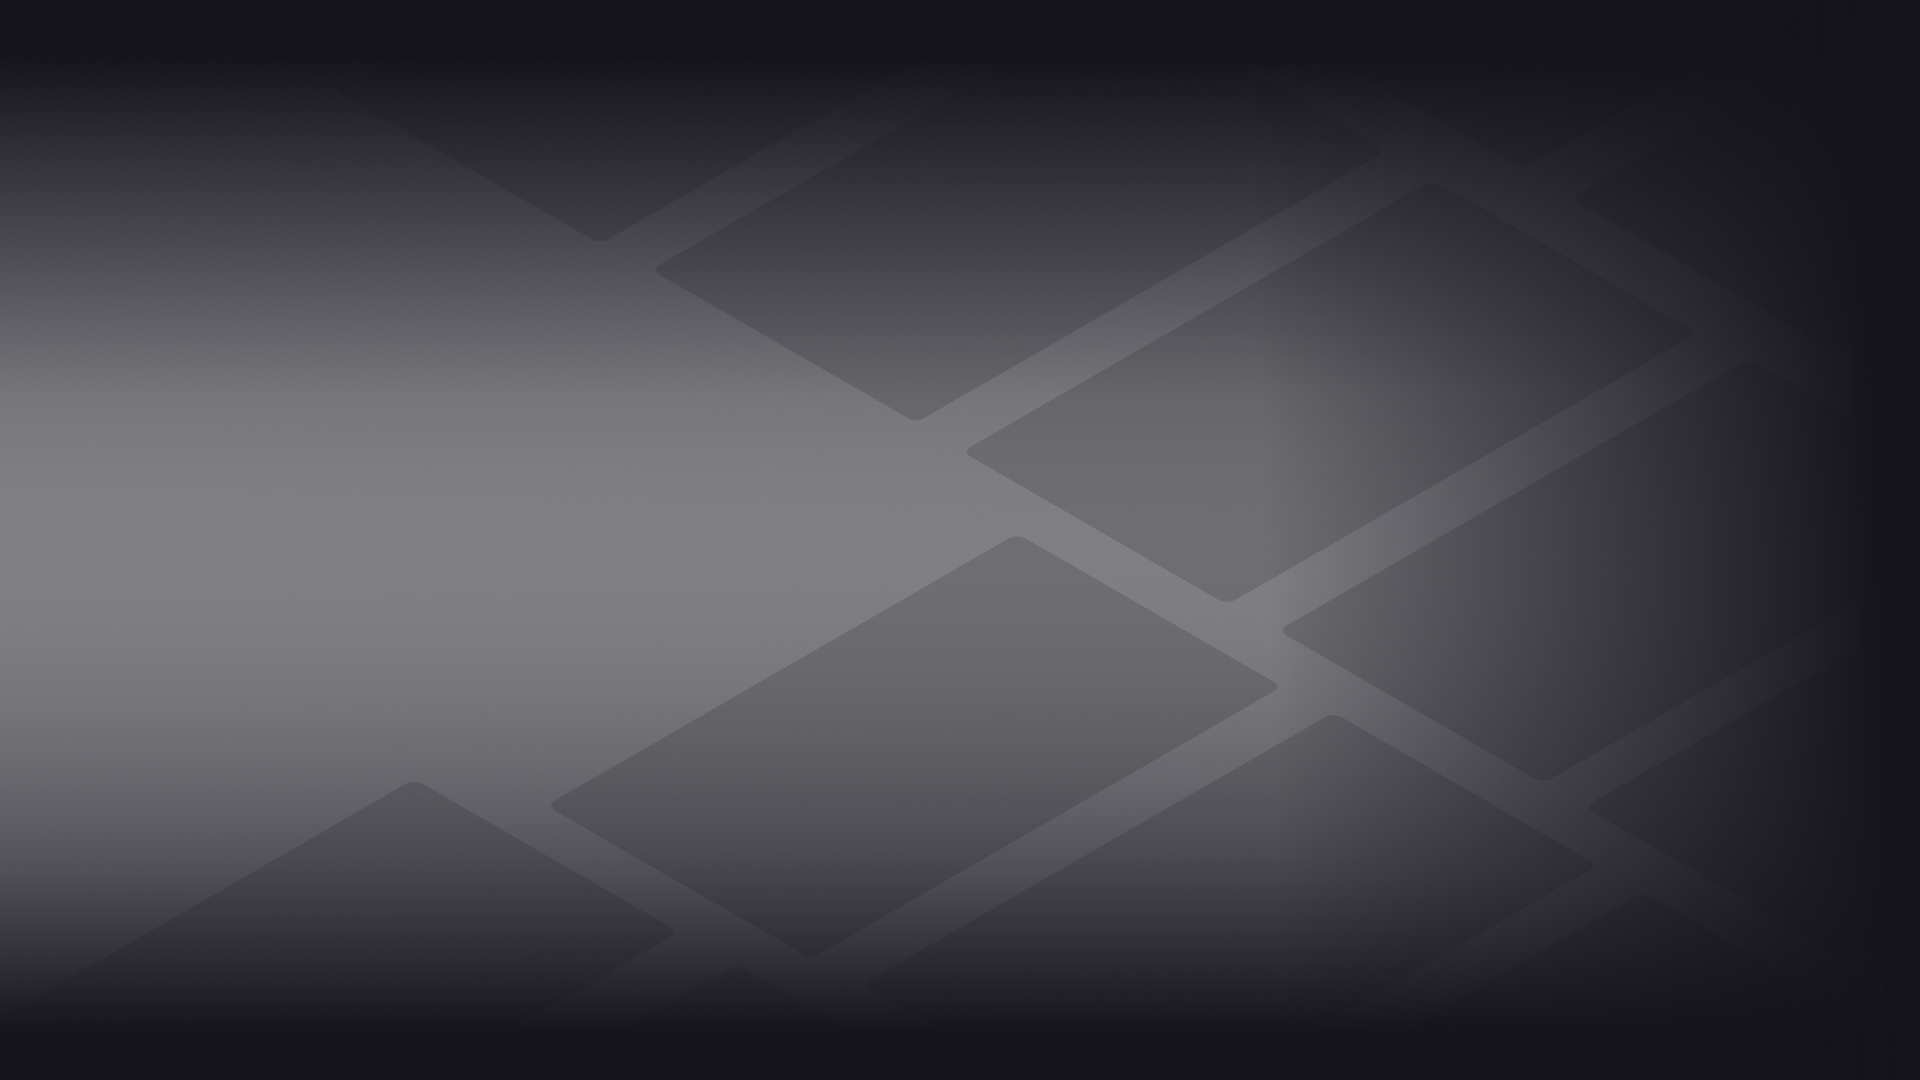
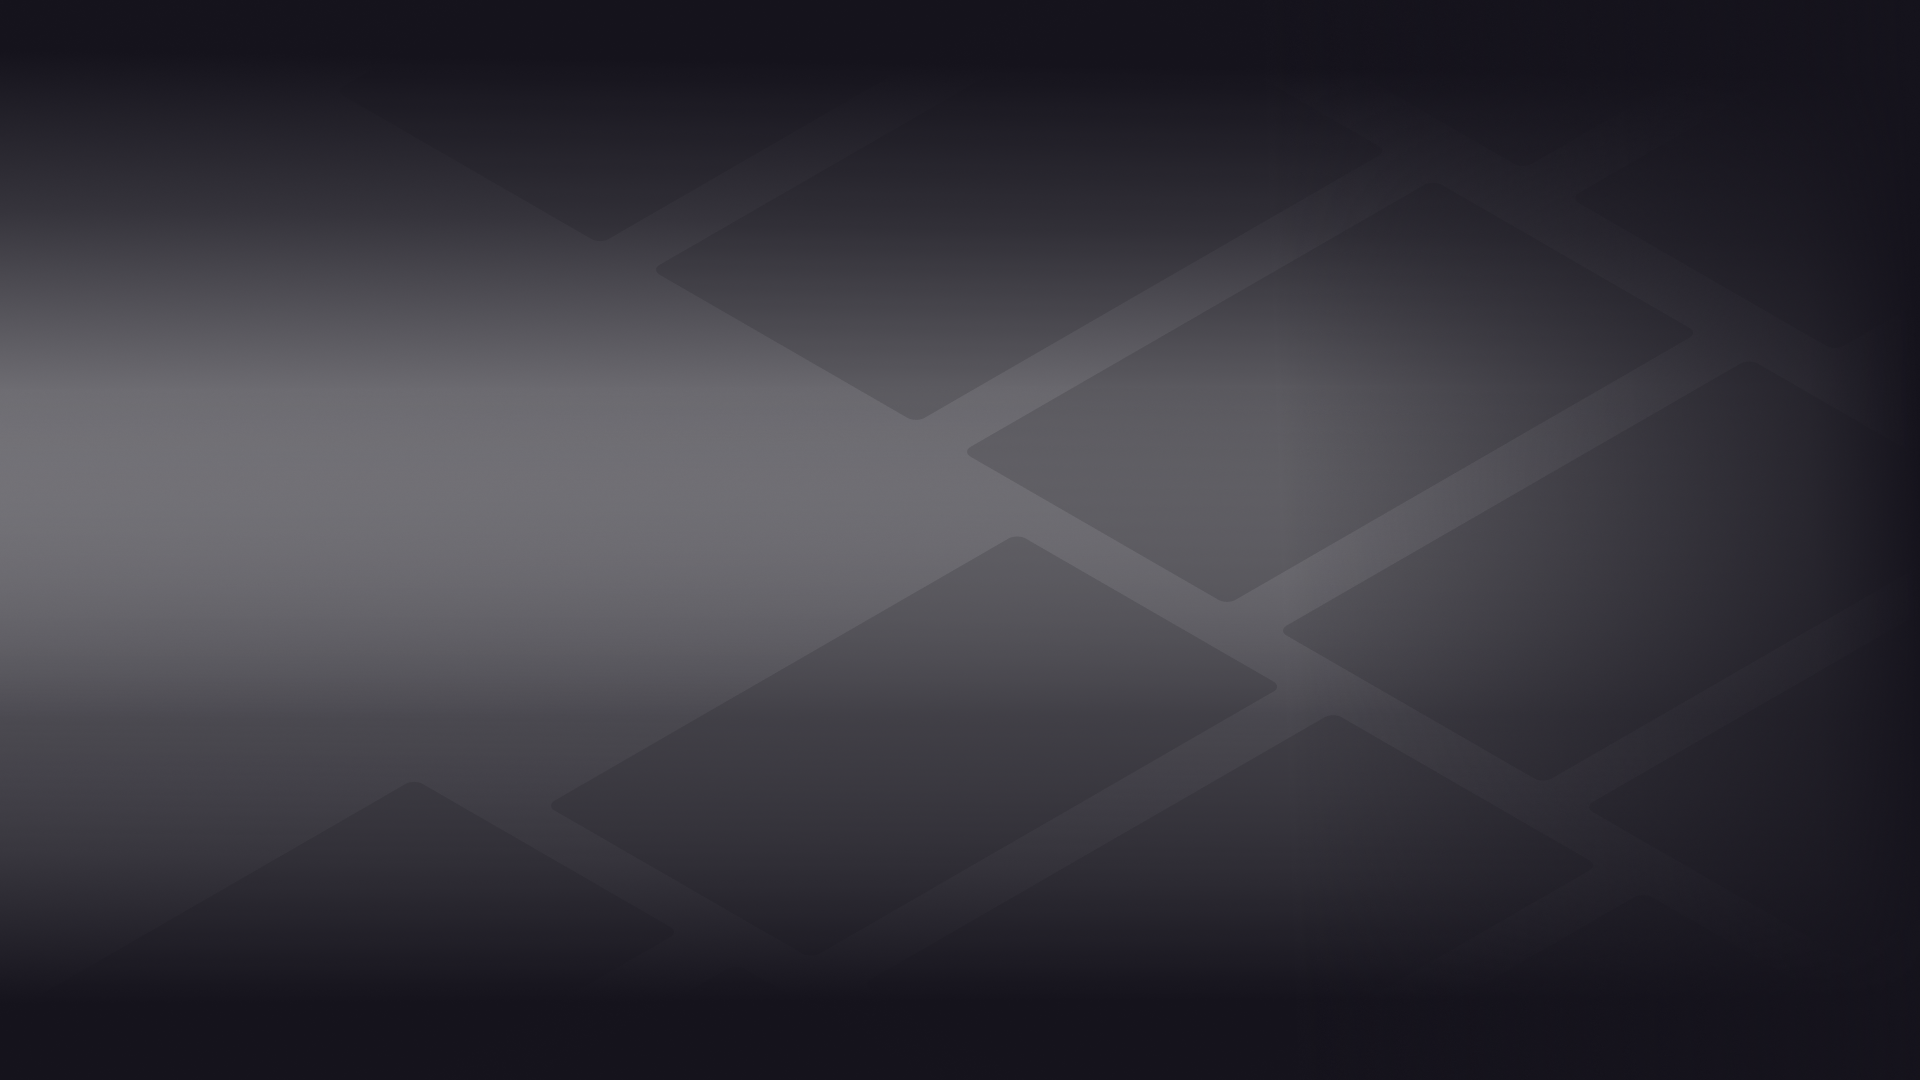
Added some initial components for project section

Changed region(s): [[0.0, 0.5194, 0.7812, 0.8556]]

diff --git a/fm-portfolio/src/components/Project.jsx b/fm-portfolio/src/components/Project.jsx
@@ -1,12 +1,22 @@
 import React from 'react'
+import {glow04} from '../assets'
 
 const Project = () => {
   return (
-    <div>
-      <h1 className='uppercase text-white font-black text-[3rem] lg:text-[9rem] whitespace-nowrap leading-none
-            ml-[5rem]' id='scroll-animation-4'>Who am <span className='text-[#9291DD]'>i</span>?</h1>
-      <p className='text-white'>Lorem ipsum dolor sit amet consectetur adipisicing elit. Saepe, cupiditate! Sapiente placeat tempora ab eaque veniam maxime, doloremque iusto ipsa dolores! Natus reprehenderit vero et ex culpa expedita nostrum facilis.</p>
-    </div>
+    <>
+      <img src={glow04} alt="Glow eclipse" className='absolute top-[360vh]' id='scroll-animation-' />
+      <div className='lg:pl-[13.5rem] pl-[2rem] flex h-full'>
+        <div className='flex h-full items-center'>
+          <div className='grid grid-cols-8'>
+            <div className='lg:col-span-4 col-span-7 p-px'>
+              <h1 className='uppercase text-white font-black text-[3rem] lg:text-[7rem] whitespace-nowrap leading-none' id='scroll-animation-'>Projects</h1>
+              <p className='text-white'>Lorem ipsum dolor sit amet consectetur adipisicing elit. Saepe, cupiditate! Sapiente placeat tempora ab eaque veniam maxime, doloremque iusto ipsa dolores! Natus reprehenderit vero et ex culpa expedita nostrum facilis.</p>
+            </div>
+          </div>
+        </div>
+      </div>
+    </>
+
   )
 }
 

diff --git a/fm-portfolio/src/App.jsx b/fm-portfolio/src/App.jsx
@@ -22,10 +22,11 @@ export default function App() {
         <About />
       </section>
       {/* Education Section */}
-      <section ref={(el) => (sectionsRef.current[2] = el)} className='bg-grid-1 h-screen bg-contain bg-center bg-no-repeat' id='education'>
+      <section ref={(el) => (sectionsRef.current[2] = el)} className='bg-grid-1 bg-contain bg-center bg-no-repeat' id='education'>
         <Education />
       </section>
-      <section ref={(el) => (sectionsRef.current[3] = el)} className='h-screen' id='projects'>
+      {/* Project Section */}
+      <section ref={(el) => (sectionsRef.current[3] = el)} className='bg-compiled-proj h-screen bg-cover bg-center bg-no-repeat' id='projects'>
         <Project />
       </section>
     </>

diff --git a/fm-portfolio/tailwind.config.js b/fm-portfolio/tailwind.config.js
@@ -8,6 +8,7 @@ export default {
     extend: {
       backgroundImage: {
         'grid-1': "url('/src/assets/grid-01.png')",
+        'compiled-proj': "url('/src/assets/compiled-projects.png')",
         'border-gradient': 'linear-gradient(-10deg, rgba(21,19,28,1) 30%, rgba(67,59,98,1) 100%)',
         'border-gradient-1': 'linear-gradient(35deg, rgba(67,59,98,1) 9%, rgba(21,19,28,1) 33%)',
         'border-gradient-2': 'linear-gradient(120deg, rgba(67,59,98,1) 9%, rgba(21,19,28,1) 33%)',

diff --git a/fm-portfolio/src/assets/index.js b/fm-portfolio/src/assets/index.js
@@ -5,6 +5,7 @@ import linkedin from './linkedin.svg'
 import glow01 from './glow-01.png'
 import glow02 from './glow-02.png'
 import glow03 from './glow-03.png'
+import glow04 from './glow-04.png'
 import FMlogo from './FM-logo.png'
 import profile from './sample-profile.png'
 import html from './html-icon.svg'
@@ -30,6 +31,7 @@ export {
   glow01,
   glow02,
   glow03,
+  glow04,
   FMlogo,
   profile,
   html,
